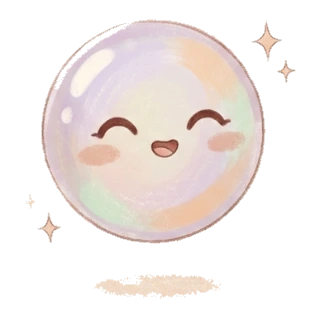
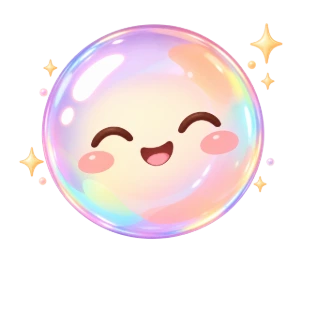
O personagem agora é o Bebê Bolha
Arte nova do Drive ("Bebê Bolha expressão Feliz"), PNG de 1536×1024 com
alfa de verdade, entrando no lugar de `feliz.webp`.

O ENQUADRAMENTO É O QUE SEGURA A EMENDA. `Bolha` desenha a arte num
quadrado de `tamanho` e põe a sombra do chão POR FORA da imagem, então
duas artes com enquadramentos diferentes fazem o personagem mudar de
tamanho e de altura ao trocar de humor — na mesma tela, na mesma bolha.

A arte nova foi recortada casando a ESFERA, não a caixa: a caixa de tudo
inclui as faíscas, que estão em lugares diferentes em cada arte, e casar
por ela encolheria a esfera para caber as faíscas da nova. Medido e
casado: 222px de diâmetro, centro em 153×131 dentro dos 320 da caixa —
os mesmos números da arte anterior.

⚠ A TROCA ESTÁ PELA METADE, e de propósito. Só chegou a expressão feliz;
`comemorando`, `dormindo` e `preocupada` continuam com a personagem
anterior, em aquarela, e a diferença de traço aparece assim que o humor
muda. Usar a arte nova nas quatro não é opção: ela SORRI, e um sorriso
onde o app quer dizer "preocupada" ou "dormindo" é pior que a
inconsistência de estilo — aí a cara passa a contradizer a tela.

Faltam as três expressões da mesma personagem.

Claude-Session: https://claude.ai/code/session_01BJM25tJAqQNE1gvk3FSNXP

diff --git a/src/components/bolha.tsx b/src/components/bolha.tsx
@@ -69,6 +69,24 @@ import preocupada from "@/assets/bolha/preocupada.webp";
 
 export type Humor = "feliz" | "comemorando" | "dormindo" | "preocupada";
 
+/**
+ * ─── AS QUATRO ARTES, E UMA TROCA PELA METADE (ago/2026) ────────────────────
+ *
+ * `feliz` é a arte NOVA do Bebê Bolha (pedido do dono: "o personagem agora é o
+ * bebê bolha"). As outras três continuam com a personagem anterior, em aquarela
+ * — e a diferença de traço aparece assim que o humor muda.
+ *
+ * Não dá para usar a arte nova nas quatro: ela SORRI. Pôr um sorriso onde o
+ * app quer dizer "preocupada" ou "dormindo" é pior que a inconsistência de
+ * estilo, porque aí a cara passa a contradizer o que a tela está dizendo.
+ *
+ * Falta, então, a mesma personagem em três expressões: comemorando, dormindo e
+ * preocupada. Enquanto elas não chegam, o enquadramento é o que segura a
+ * emenda: a arte nova foi recortada para a ESFERA cair no mesmo tamanho e na
+ * mesma altura da antiga (222px de diâmetro, centro em 153×131 na caixa de
+ * 320). Casar pela caixa da imagem, e não pela esfera, faria o personagem
+ * mudar de tamanho ao trocar de humor — na mesma tela, na mesma bolha.
+ */
 const ARTE: Record<Humor, string> = { feliz, comemorando, dormindo, preocupada };
 
 /**
